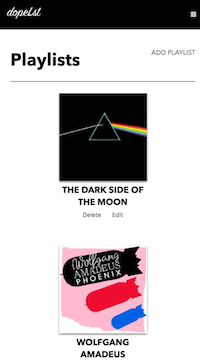
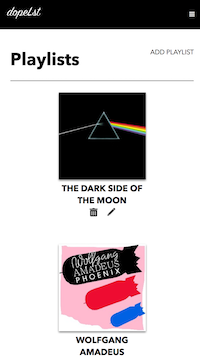
Made playlist consistent with song

diff --git a/dev/src/components/Playlist.vue b/dev/src/components/Playlist.vue
@@ -10,8 +10,8 @@
           <img v-bind:id="'playlist-img-' + i" class="playlist-img" v-bind:alt="playlist.name" v-on:click="openPlaylist(playlist)" />
           <a class="playlist-name" v-on:click="openPlaylist(playlist)">{{playlist.name}}</a>
 
-          <button v-on:click="removePlaylist(playlist)">Delete</button>
-          <button v-on:click.prevent="showEditModal(playlist)">Edit</button>
+          <button v-on:click="removePlaylist(playlist)"><img src="../assets/delete.png" alt="Delete" /></button>
+          <button v-on:click.prevent="showEditModal(playlist)"><img src="../assets/edit.png" alt="Edit" /></button>
         </div><!-- .playlist-element -->
       </div><!-- #playlist-grid -->
     </section><!-- #playlist-view -->
@@ -282,6 +282,8 @@ export default {
     margin: 5px 20px 40px;
     width: 160px;
 
+    vertical-align: top;
+
     display: inline-block;
 
     .playlist-img {
@@ -304,6 +306,16 @@ export default {
 
     .playlist-name:hover {
       color: #7c7c7c;
+    }
+
+    button {
+      border: none;
+      background: none;
+
+      img {
+        width: 16px;
+        height: 16px;
+      }
     }
   }
 }

diff --git a/README.md b/README.md
@@ -42,7 +42,7 @@ Users can delete their Playlists by clicking the delete icon under the playlist 
 
 ### Asset Management
 
-We originally planned on using Firebase Storage to store images. However, as our project development advanced into the PWA stage, we quickly realized that Firebase Storage does not have an offline mode of operation. At that stage, we had two options - to alter Firebase Storage's CORS settings (which we found could be done, but since the method is very well hidden within layers of documentation, is likely not a well supported method) or to store the images as data URLs in in Firebase Database. We ultimately went with the second option because it was more compatible with the features that we were already using (namely Firebase Database's offline features).
+We originally planned on using Firebase Storage to store images. However, as our project development advanced into the PWA stage, we quickly realized that Firebase Storage does not have an offline mode of operation. At that stage, we had two options - to alter Firebase Storage's CORS settings (which we found could be done, but since the method is very well hidden within layers of documentation, is likely not a well supported method) or to store the images as data URLs in in Firebase Database. We ultimately went with the second option because it was more compatible with the features that we were already using (namely Firebase Database's offline features). In order to reduce the space needed to stored images, we 
 
 
 ## Code Organization/Architecture
